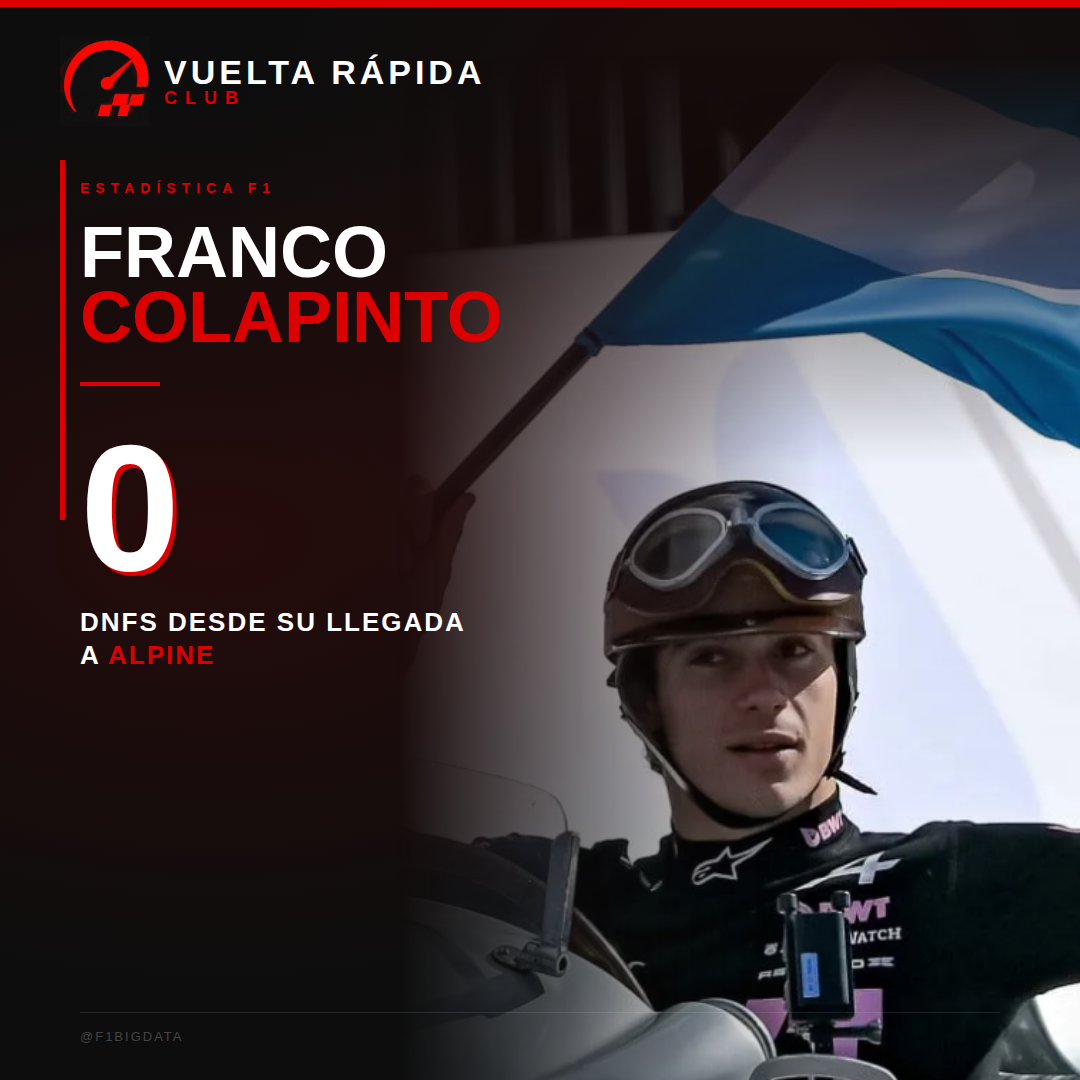
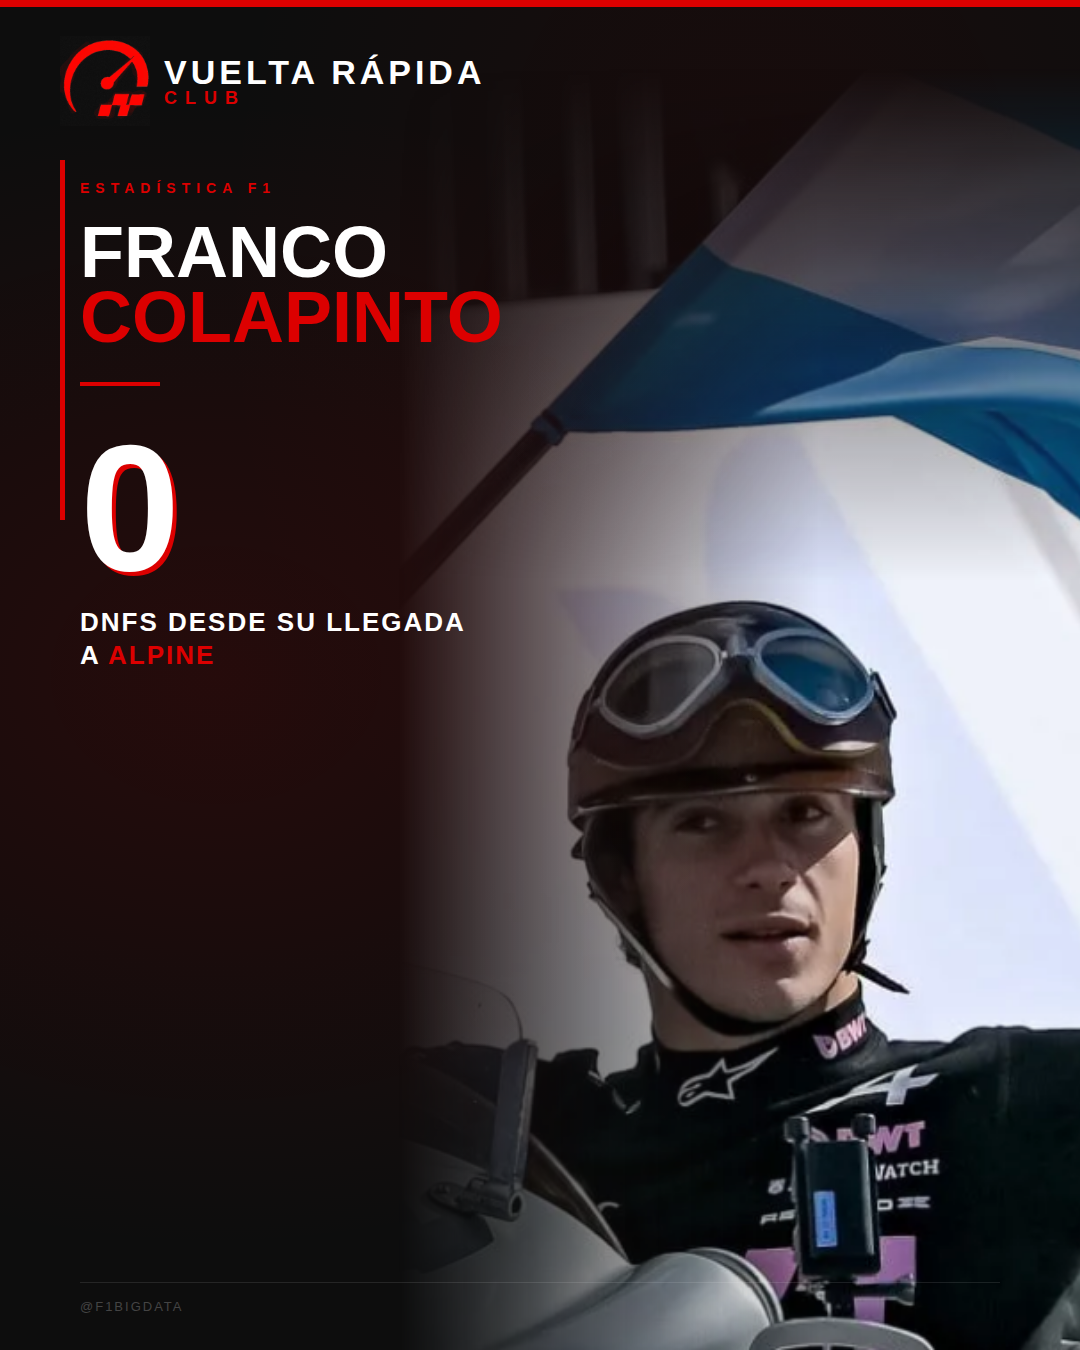
Change template format from 1:1 to 4:5 (1080x1350)
https://claude.ai/code/session_01DDwX8pJZgktFBkpL7WCYaK

diff --git a/contenido/vueltarapida/plantilla/generar.html b/contenido/vueltarapida/plantilla/generar.html
@@ -7,7 +7,7 @@
 
   body {
     width: 1080px;
-    height: 1080px;
+    height: 1350px;
     font-family: 'Arial Black', Arial, sans-serif;
     overflow: hidden;
     background: #0d0d0d;
